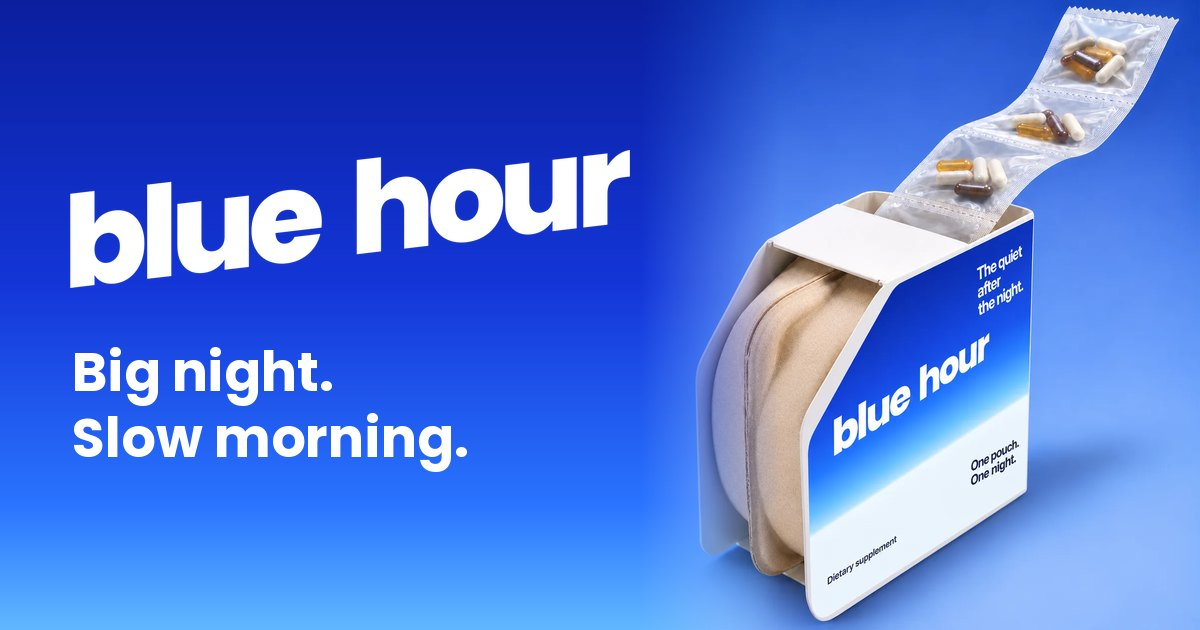
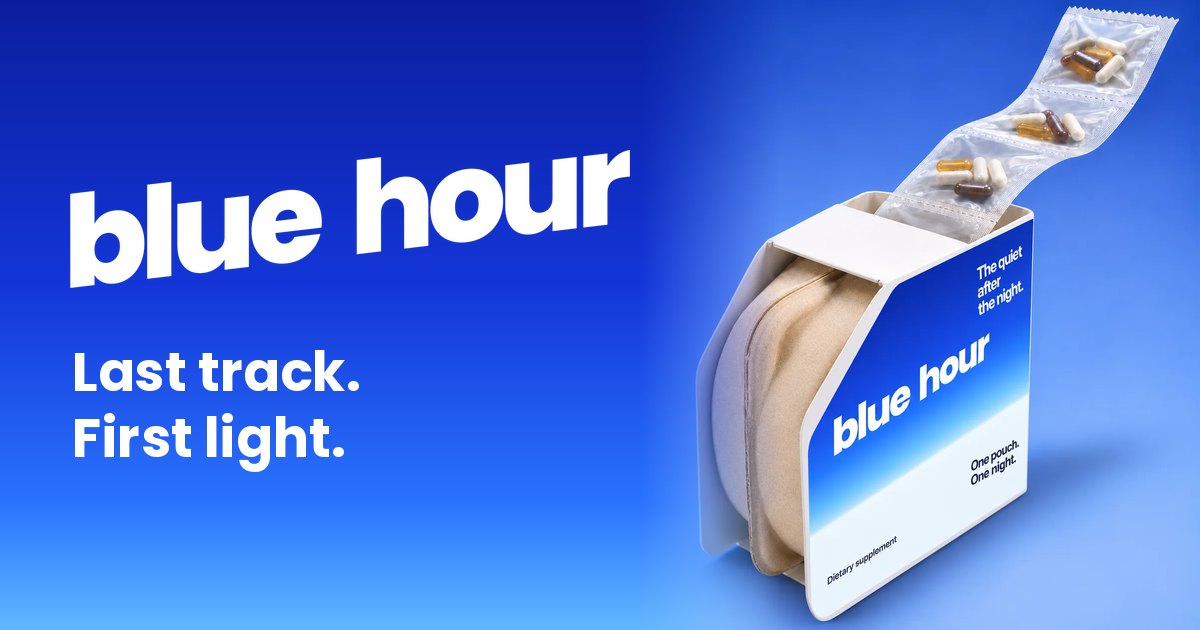
Rewrite copy from slow and calm to fresh and ready
New hero line "Last track. First light.", new marquee and closing lines,
energetic capsule names (Level, Bright, Spark, Core, Clear), and copy
aimed at people who still have somewhere to be in the morning. Also fixes
a style clash that faded the hero's price line.

Claude-Session: https://claude.ai/code/session_01HrdixeedbzusQTcVYnvNMv

Changed region(s): [[0.0617, 0.5429, 0.4008, 0.754]]

diff --git a/src/styles/global.css b/src/styles/global.css
@@ -376,7 +376,7 @@ button,select,input{font:inherit;letter-spacing:inherit;color:inherit}
 .pitch h2{font-size:clamp(26px,7vw,36px);font-style:italic}
 .pitch p{font-size:16px}
 .pitch .btn{justify-self:start}
-.note{max-width:680px;margin:28px auto 0;font-size:13.5px;line-height:1.5;color:var(--soft)}
+.disclaimer{max-width:680px;margin:28px auto 0;font-size:13.5px;line-height:1.5;color:var(--soft)}
 .more{max-width:1240px;margin:clamp(64px,12vw,110px) auto 0}
 .more>h2{font-size:clamp(28px,7vw,40px);margin-bottom:22px;color:var(--deep)}
 @media (min-width:700px){.pitch{grid-template-columns:140px minmax(0,1fr);align-items:center}.pitch img{width:140px;grid-row:span 3}}

diff --git a/src/scripts/site.js b/src/scripts/site.js
@@ -29,7 +29,7 @@ function paint() {
   $('#checkout').textContent = 'Checkout • ' + money(cart * PRICE);
   const box = $('#citems');
   if (!cart) {
-    box.innerHTML = '<div class="empty"><h3>Your cart is empty.</h3><p>Thirty quiet mornings are one tap away.</p><a class="btn solid" href="/shop">Shop 30 nights</a></div>';
+    box.innerHTML = '<div class="empty"><h3>Your cart is empty.</h3><p>Your next 30 nights are one tap away.</p><a class="btn solid" href="/shop">Shop 30 nights</a></div>';
     return;
   }
   box.innerHTML =
